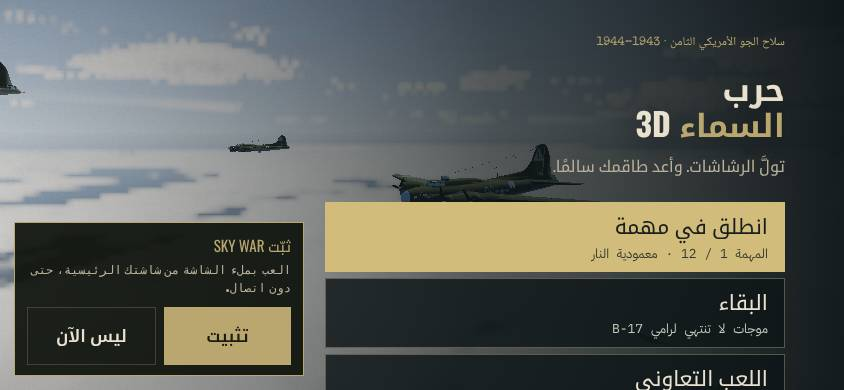
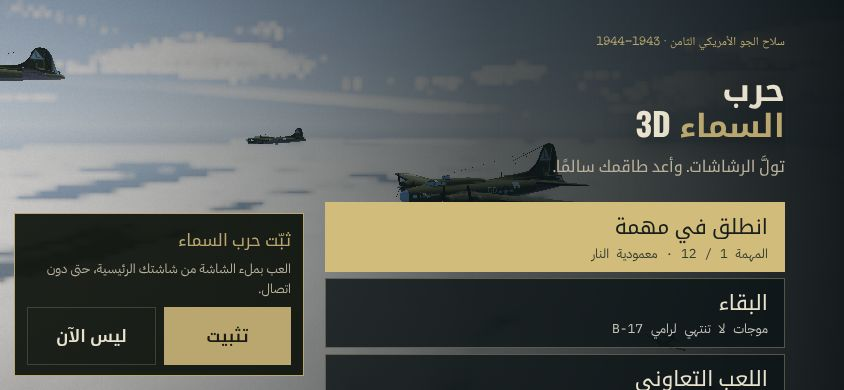
Phase 11 · 15: review fixes for the touch gunner
- Arabic install card: body text in the Arabic UI font (joined letters,
  word spaces kept), title "ثبّت حرب السماء" to match the title screen
- RELOAD moves into the right thumb cluster, stacked on LOOK
- Phone HUD: top-left score 18 px and round line 15 px (beats the clean
  HUD's id rules that kept 14 / 12 px)
- Re-shot the phone shots, updated the report, added a test

Claude-Session: https://claude.ai/code/session_0179VXSajYTBnCwR3dRhJjzb

diff --git a/src/ui/devices.css b/src/ui/devices.css
@@ -216,8 +216,8 @@ html[dir=rtl] #hangar.hfolding .hfold.closed > .hsec:first-child::after { transf
 /* previous / next gun position: a pair above FIRE, under the right thumb */
 #touchHud .th-seat { position: absolute; right: calc(18px + env(safe-area-inset-right)); bottom: calc(134px + env(safe-area-inset-bottom)); display: flex; gap: 8px; direction: ltr; }   /* ◀ stays left in Arabic */
 #touchHud .th-seat button { position: static; width: 48px; height: 44px; font-size: 16px; letter-spacing: 0; }
-/* RELOAD (hold to clear a jam): left of LOOK */
-#touchHud .th-reload { right: calc(278px + env(safe-area-inset-right)); bottom: calc(34px + env(safe-area-inset-bottom)); width: 64px; height: 48px; border-radius: 24px; font-size: 11px; letter-spacing: 1px; }
+/* RELOAD (hold to clear a jam): in the thumb cluster, stacked on LOOK */
+#touchHud .th-reload { right: calc(208px + env(safe-area-inset-right)); bottom: calc(94px + env(safe-area-inset-bottom)); width: 64px; height: 44px; border-radius: 22px; font-size: 11px; letter-spacing: 1px; }
 #touchHud .th-reload.on, #touchHud .th-seat button:active { background: var(--khaki); color: #1b1a12; border-color: var(--khaki); }
 #touchHud.pilot .th-seat, #touchHud.pilot .th-reload { display: none; }
 #touchHud .th-gyro.on { background: var(--khaki); color: #1b1a12; border-color: var(--khaki); }
@@ -229,7 +229,12 @@ html[dir=rtl] #hangar.hfolding .hfold.closed > .hsec:first-child::after { transf
   #touchHud .th-seat { bottom: calc(124px + env(safe-area-inset-bottom)); }
   #touchHud .th-zoom { right: calc(126px + env(safe-area-inset-right)); }
   #touchHud .th-look { right: calc(198px + env(safe-area-inset-right)); }
-  #touchHud .th-reload { right: calc(262px + env(safe-area-inset-right)); }
+  #touchHud .th-reload { right: calc(194px + env(safe-area-inset-right)); bottom: calc(94px + env(safe-area-inset-bottom)); }
+}
+/* the clean HUD (cleanHud.css) lines FIRE / ZOOM / LOOK up along the bottom edge on a phone:
+   RELOAD stacks on LOOK so the right thumb finds it in the same cluster */
+@media (max-height: 500px) {
+  body[data-hud-detail].touch #touchHud .th-reload { width: 60px; height: 44px; right: calc(128px + env(safe-area-inset-right)); bottom: calc(58px + env(safe-area-inset-bottom)); }
 }
 
 /* ---------- Phones: a HUD you can read at arm's length ---------- */
@@ -240,6 +245,10 @@ body.touch .hud-bl { margin-left: env(safe-area-inset-left); }
   /* the seat bar is tapped: never smaller than 11 px text */
   body.touch .stations span { font-size: 11px; }
   body.touch .hud-tl .objective { font-size: 13px; line-height: 1.3; }
+  /* score / round line top left: the clean HUD's 10-14 px is too small at arm's length (ids beat its rules) */
+  body.touch[data-hud-detail] #hMission { font-size: 12px; }
+  body.touch[data-hud-detail] #hStatus { font-size: 18px; line-height: 1.25; }
+  body.touch[data-hud-detail] #hObjective { font-size: 15px; line-height: 1.35; }
   body.touch #feed div { font-size: 13px; }
 }
 
@@ -258,5 +267,7 @@ html[dir=rtl] #installCard { right: auto; left: calc(14px + env(safe-area-inset-
   #installCard .ic-t { font-size: 15px; }
   #installCard .ic-d { font-size: 12px; margin: 3px 0 8px; }
 }
-html[lang=ar] #installCard .ic-d { font-family: inherit; letter-spacing: 0; }
-html[lang=ar] #installCard .ic-t { letter-spacing: 0; }
+/* Arabic body text: the Arabic UI face (joined letters), never the Latin typewriter / monospace face */
+html[lang=ar] #installCard .ic-d { font-family: 'IBM Plex Sans Arabic', 'Noto Kufi Arabic', sans-serif; letter-spacing: 0; line-height: 1.6; word-spacing: normal; }
+html[lang=ar] #installCard .ic-t { font-family: 'Oswald', 'Noto Kufi Arabic', sans-serif; letter-spacing: 0; }
+@media (max-height: 520px) { html[lang=ar] #installCard .ic-d { font-size: 13px; line-height: 1.55; } html[lang=ar] #installCard .ic-t { font-size: 17px; } }

diff --git a/src/i18n/ar/touchGunner.ts b/src/i18n/ar/touchGunner.ts
@@ -18,7 +18,7 @@ export default { phrases: {
   'Phone performance mode': 'وضع أداء الهاتف',
   'Phone performance mode renders fewer pixels and effects so a phone stays smooth and cool.': 'يرسم وضع أداء الهاتف بكسلات ومؤثرات أقل ليبقى الهاتف سلسًا وباردًا.',
   // install card
-  'Install Sky War': 'ثبّت Sky War',
+  'Install Sky War': 'ثبّت حرب السماء',
   'Play full screen from your home screen, even offline.': 'العب بملء الشاشة من شاشتك الرئيسية، حتى دون اتصال.',
   'Tap Share, then “Add to Home Screen” to play full screen, even offline.': 'اضغط «مشاركة» ثم «إضافة إلى الشاشة الرئيسية» لتلعب بملء الشاشة، حتى دون اتصال.',
   'Install': 'تثبيت',

diff --git a/tests/touchGunner.test.ts b/tests/touchGunner.test.ts
@@ -134,4 +134,8 @@ describe('Arabic for the touch gunner', () => {
       expect(PHRASES[en], en).toBeDefined();
     }
   });
+  it('the install card uses the Arabic game name of the title screen', () => {
+    expect(touchGunner.phrases['Install Sky War']).toBe('ثبّت حرب السماء');
+    expect(touchGunner.phrases['Install Sky War']).not.toMatch(/[A-Za-z]/);
+  });
 });

diff --git a/docs/phase11/reports/15.md b/docs/phase11/reports/15.md
@@ -11,11 +11,11 @@ overlay, a PWA manifest and service worker, and a graphics auto-pick that caps p
 |---|---|
 | **Gyro aim** | New `src/core/Gyro.ts`: `devicemotion` rotation rate → mouse deltas, 1:1 (a degree of phone is a degree of gun), screen-angle aware (both landscapes), with a tremor dead zone and a ceiling for violent motion. It works alongside drag aim. A **GYRO** button on the touch HUD (gunner) and Settings → Touch & gamepad → *Gyro aim* / *Gyro sensitivity*. On iOS it asks for motion permission from the tap (click). The listener only runs while gyro aim is on, and it allocates nothing per frame. |
 | **Station switching** | **◀ ▶** buttons above FIRE cycle the gun positions (the same `cycleSeat` the gamepad LB/RB use, now one method in `DeviceControls`). On a phone the clean HUD hides the seat bar, so before this there was no visible way to change seats. They keep their LTR order in Arabic. |
-| **Reload** | **RELOAD** hold button (holds R: a tap reloads, holding clears a jam). Before this, touch players had no way to reload by hand. |
-| **Phone HUD** | Phone-sized touch targets are now 44 px or bigger. The left HUD corners clear a landscape notch (`safe-area-inset-left`). On touch phones the seat-bar labels are at least 11 px and the objective and kill-feed text is bigger. |
+| **Reload** | **RELOAD** hold button (holds R: a tap reloads, holding clears a jam). Before this, touch players had no way to reload by hand. It sits in the right thumb cluster, stacked on LOOK (left of ZOOM, under ◀ ▶). |
+| **Phone HUD** | Phone-sized touch targets are now 44 px or bigger. The left HUD corners clear a landscape notch (`safe-area-inset-left`). On touch phones the seat-bar labels are at least 11 px and the kill-feed text is bigger. The top-left score line goes from 14 px to 18 px and the round / objective line from 12 px to 15 px (the clean HUD's id rules used to override the earlier bump). |
 | **Mobile performance** | New `src/render/PhonePerf.ts`: *Phone performance mode* (Automatic = phones / Always on / Off). It caps the render pixel budget (0.75 Mpx, or 0.5 Mpx on ≤4 GB / ≤4-core phones) and scales the visual particle budget, on top of the chosen preset. Dynamic resolution still runs under it. Hook: `Engine.phone` + `Engine.setPhoneProfile()` (budget in `resize()`, particles in `setQuality()`). |
 | **PWA install flow** | New `src/core/Install.ts` (rules) + `src/ui/InstallPrompt.ts` (card). After the first sortie, on the title screen, on touch devices: Android/Chrome gets an **Install** button that opens the browser's own dialog (`beforeinstallprompt`), and iPhone/iPad Safari gets "Tap Share, then Add to Home Screen". It never shows in the installed app. *Not now* snoozes it for 3 days, and it stops asking after 3 refusals. It hides as soon as a mission starts and never covers the first-run onboarding prompt. |
-| **Arabic** | New table `src/i18n/ar/touchGunner.ts` (registered in `src/i18n/phrases.ts`) covers every new string. |
+| **Arabic** | New table `src/i18n/ar/touchGunner.ts` (registered in `src/i18n/phrases.ts`) covers every new string. The install card's title is "ثبّت حرب السماء" (the same name as the Arabic title screen). Its body text uses the Arabic UI font (IBM Plex Sans Arabic, then Noto Kufi Arabic), so the letters join and the word spaces show. |
 
 ## Files
 New: `src/core/Gyro.ts`, `src/core/Install.ts`, `src/render/PhonePerf.ts`, `src/ui/InstallPrompt.ts`,
@@ -27,16 +27,18 @@ Hook lines in: `src/ui/TouchHud.ts` (buttons, gyro), `src/game/DeviceControls.ts
 
 ## Tests
 - `npx tsc --noEmit`: clean.
-- `tests/touchGunner.test.ts` (15 tests): gyro axes in both landscapes, the 1:1 scale, dead zone, ceiling,
+- `tests/touchGunner.test.ts` (16 tests): gyro axes in both landscapes, the 1:1 scale, dead zone, ceiling,
   junk input, no allocation; phone profile selection and pixel caps; install offer rules, snooze, refusal
-  limit, iOS Safari detection, defensive storage parsing; the Arabic table is translated and registered.
-- Full `npm run check` locally: build OK, 94 files / 935 tests passed. GitHub CI on the branch: green (run 38720897746: typecheck + build and all three test shards passed).
+  limit, iOS Safari detection, defensive storage parsing; the Arabic table is translated and registered; the
+  Arabic install title uses the game's Arabic name.
+- Full `npm run check` locally: build OK, 94 files / 936 tests passed. GitHub CI on the branch: see the review fixes section below.
 
 ## Shots (844×390 phone, headless Chromium + SwiftShader, `?touch=1`)
 `docs/phase11/shots/15/`:
 - `before-phone-en-gunner.jpg` (main): no seat switching, no reload, no gyro.
-- `phone-en-gunner.jpg` / `phone-ar-gunner.jpg`: GYRO in the top bar, ◀ ▶ above FIRE, RELOAD.
+- `phone-en-gunner.jpg` / `phone-ar-gunner.jpg`: GYRO in the top bar, ◀ ▶ above FIRE, RELOAD stacked on LOOK, larger top-left score and round text.
 - `phone-en-title.jpg` / `phone-ar-title.jpg`: the install card (bottom right; bottom left in Arabic, opposite the menu).
+  The Arabic card now renders joined text with the game's Arabic name.
 
 ## Not done / limits
 - No real phone was available: gyro signs come from the W3C axis definitions and unit tests, not from
@@ -46,3 +48,15 @@ Hook lines in: `src/ui/TouchHud.ts` (buttons, gyro), `src/game/DeviceControls.ts
 - I did not run the Phase 10 capture rig (`tools/visual_rig.mjs`) because this goal is UI only. The shots above use the same
   phone viewport before and after instead.
 - No new radio lines, so no voice generation was needed.
+
+## Review fixes (second round)
+- Arabic install card body: it was `font-family: inherit`, which fell back to a Latin or monospace face, so the letters didn't join and spaces went missing. It now uses `'IBM Plex Sans Arabic', 'Noto Kufi Arabic', sans-serif` (13 px on a phone).
+  The title uses Oswald with a Noto Kufi Arabic fallback.
+- Arabic install title: "ثبّت Sky War" → "ثبّت حرب السماء" (plus a test).
+- RELOAD: moved from mid-screen (`right: 278px`, beside the barrel readout) into the thumb cluster, stacked on LOOK.
+  On phones with the clean HUD it is 60×44 px at `right: 128px; bottom: 58px` (`src/ui/devices.css`).
+- Top-left score and round text on phones: `#hStatus` 18 px, `#hObjective` 15 px, `#hMission` 12 px. The selectors are
+  `body.touch[data-hud-detail]`, so they beat the clean HUD's id rules that kept the old 14 / 12 px.
+- I re-shot all four phone shots at 844×390 (headless Chromium + SwiftShader, `?touch=1`, a stubbed
+  `beforeinstallprompt` for the title card).
+- Still open: check the gyro signs once on a real Android phone and an iPhone, in both landscapes.
